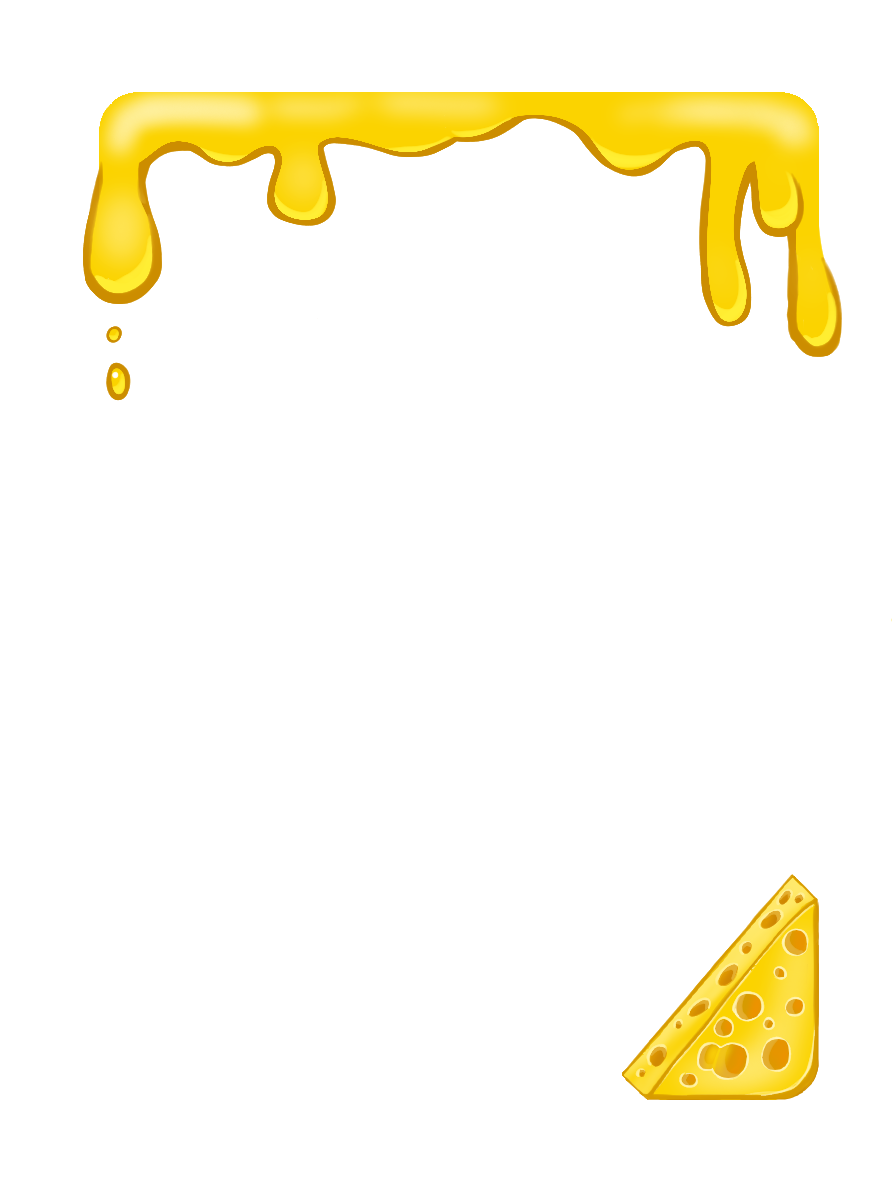
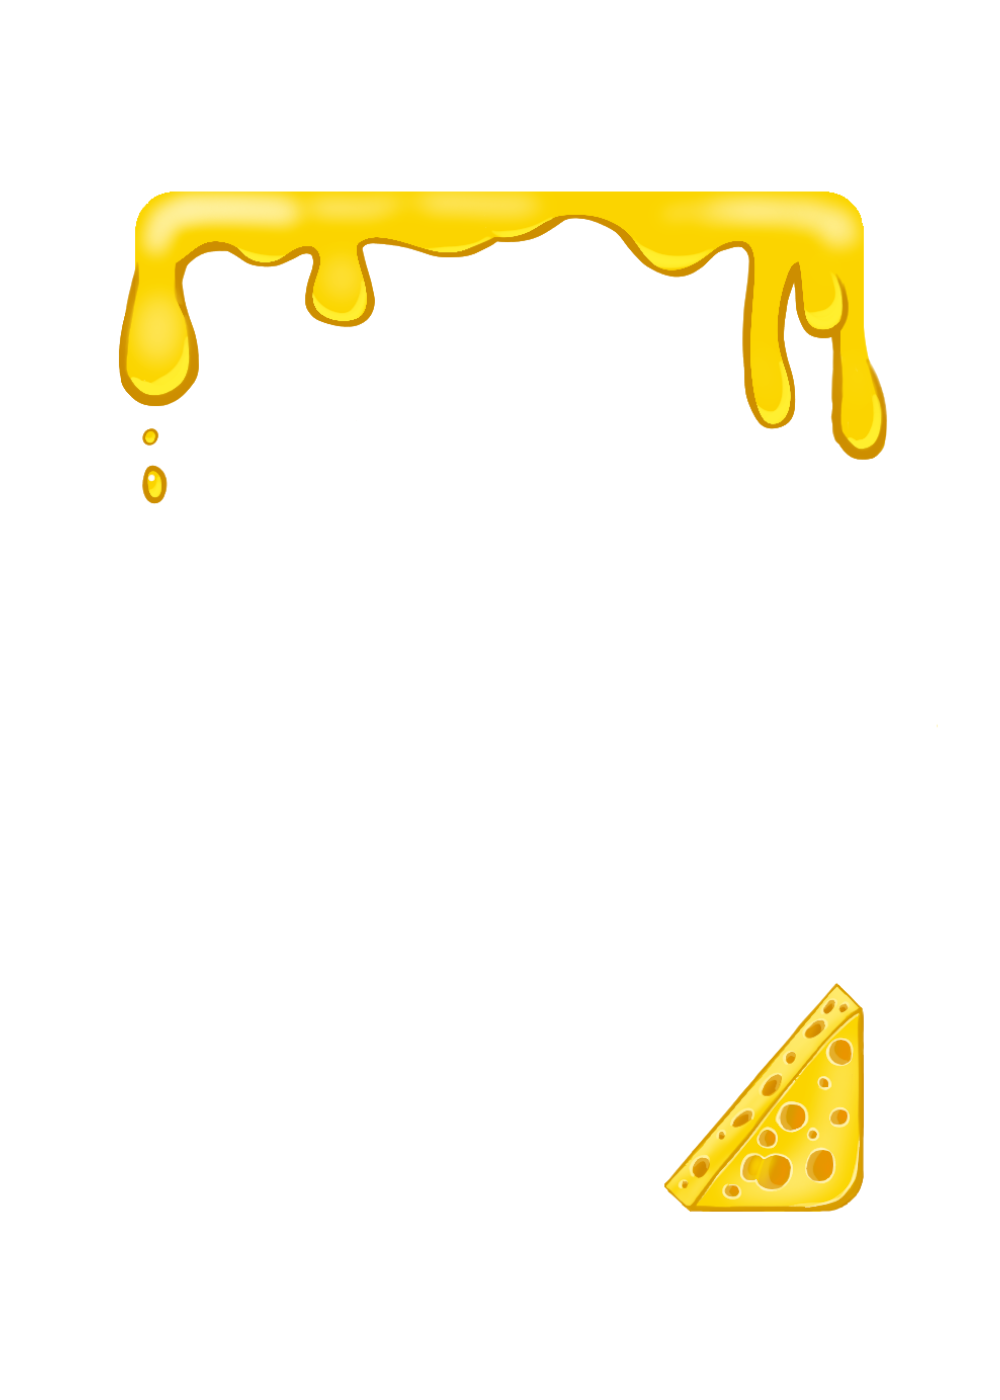
fixed butter frame

Changed region(s): [[0.0908, 0.0609, 0.9686, 0.3655], [0.6659, 0.7005, 0.9383, 0.9442]]

diff --git a/tests/test_commands.py b/tests/test_commands.py
@@ -2095,6 +2095,40 @@ class CardRenderRegressionTests(unittest.TestCase):
 
         self.assertNotEqual(base_rendered, framed_rendered)
 
+    def test_render_card_image_bytes_scales_body_down_when_frame_enabled(self) -> None:
+        try:
+            from PIL import Image
+        except ImportError:
+            self.skipTest("Pillow is not installed")
+
+        def png_bytes(color: tuple[int, int, int]) -> bytes:
+            image = Image.new("RGB", (30, 30), color)
+            output = io.BytesIO()
+            image.save(output, format="PNG")
+            return output.getvalue()
+
+        transparent_overlay = Image.new("RGBA", DEFAULT_CARD_RENDER_SIZE, (0, 0, 0, 0))
+
+        with (
+            patch("noodswap.images.read_local_card_image_bytes", return_value=png_bytes((120, 140, 160))),
+            patch("noodswap.images._load_frame_overlay_image", return_value=transparent_overlay),
+        ):
+            base_rendered = render_card_image_bytes("SPG", generation=10)
+            framed_rendered = render_card_image_bytes("SPG", generation=10, frame_key="buttery")
+
+        self.assertIsNotNone(base_rendered)
+        self.assertIsNotNone(framed_rendered)
+        if base_rendered is None or framed_rendered is None:
+            self.fail("Expected rendered card image bytes")
+
+        base_image = Image.open(io.BytesIO(base_rendered)).convert("RGBA")
+        framed_image = Image.open(io.BytesIO(framed_rendered)).convert("RGBA")
+
+        sample_x = DEFAULT_CARD_RENDER_SIZE[0] // 2
+        sample_y = 12
+        self.assertGreater(base_image.getpixel((sample_x, sample_y))[3], 0)
+        self.assertEqual(framed_image.getpixel((sample_x, sample_y))[3], 0)
+
     def test_render_card_image_bytes_applies_black_and_white_morph(self) -> None:
         try:
             from PIL import Image

diff --git a/noodswap/images.py b/noodswap/images.py
@@ -33,6 +33,8 @@ HD_CARD_RENDER_SIZE = (1000, 1400)
 OVERLAY_TEXT_SCALE = 1.5
 # Unframed cards can use tighter margins by default.
 CARD_BODY_SCALE = 0.96
+# Framed cards render smaller so overlay assets with built-in margins can sit on top cleanly.
+FRAMED_CARD_BODY_SCALE = 0.72
 # Drop previews currently render without frame overlays.
 DROP_CARD_BODY_SCALE = 0.96
 # Higher supersampling gives smoother rounded border edges.
@@ -543,7 +545,8 @@ def render_card_surface(
     normalized_frame_key = normalize_frame_key(frame_key)
 
     width, height = _normalized_card_size(size)
-    clamped_body_scale = min(max(body_scale, 0.0), 1.0)
+    effective_body_scale = FRAMED_CARD_BODY_SCALE if normalized_frame_key is not None else body_scale
+    clamped_body_scale = min(max(effective_body_scale, 0.0), 1.0)
     max_body_width = max(40, int(round(width * clamped_body_scale)))
     max_body_height = max(56, int(round(height * clamped_body_scale)))
     body_target_ratio = 1.0 / CARD_BODY_ASPECT_RATIO if CARD_BODY_ASPECT_RATIO > 0 else (1.0 / 1.6)
